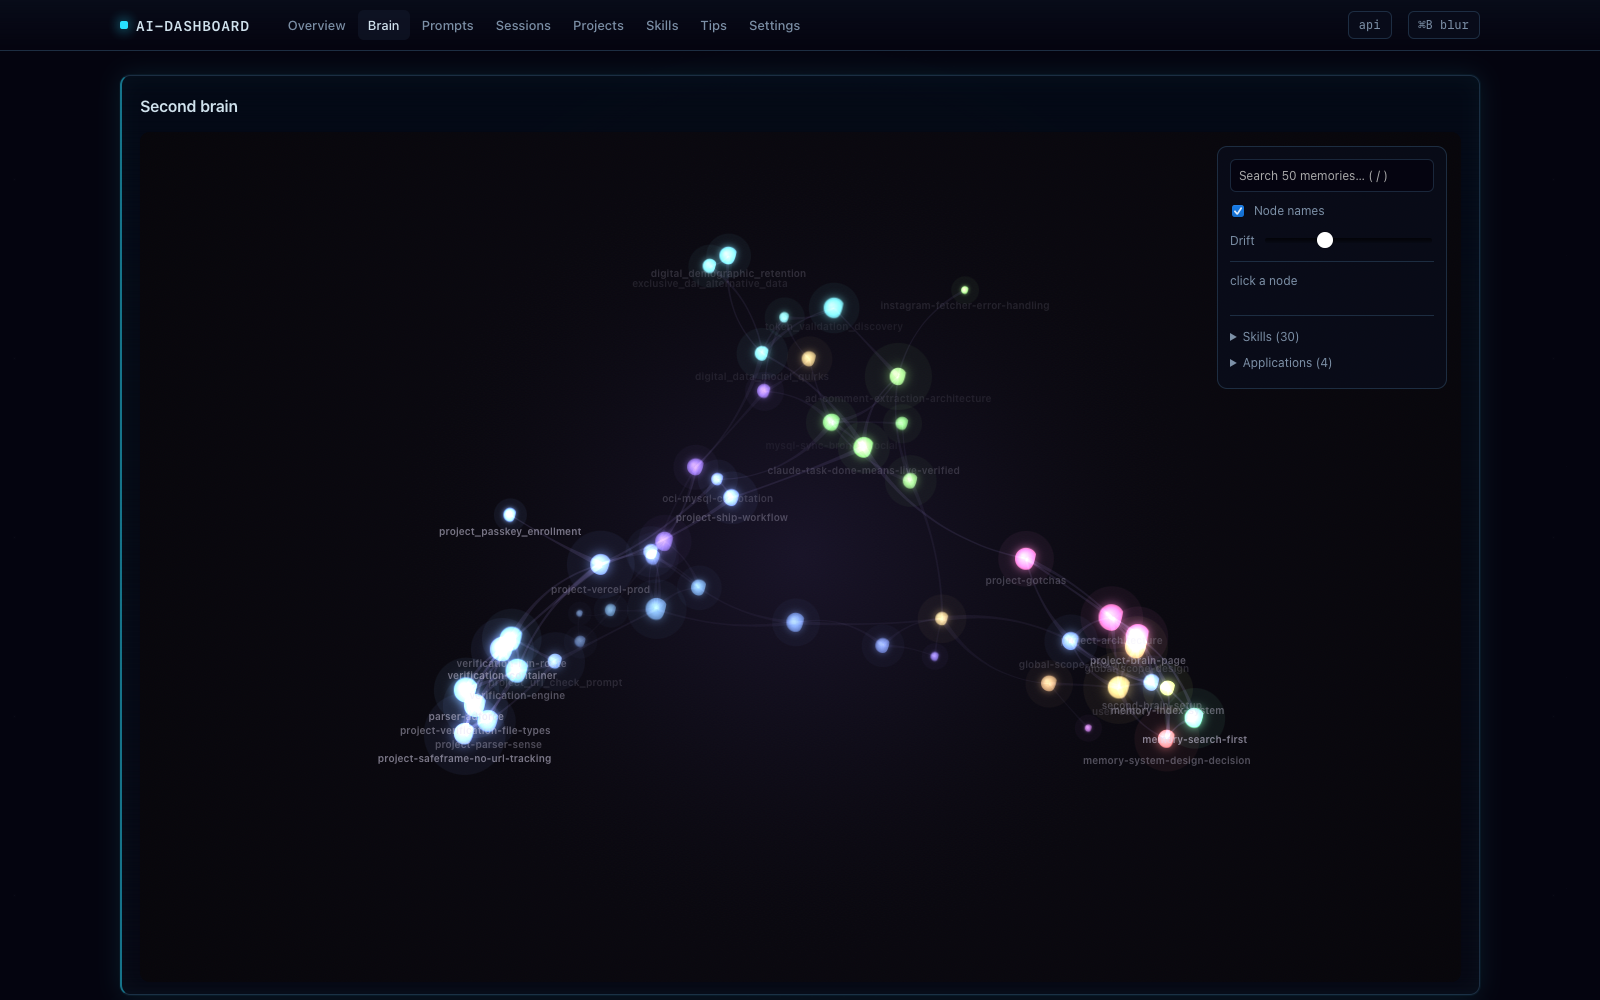
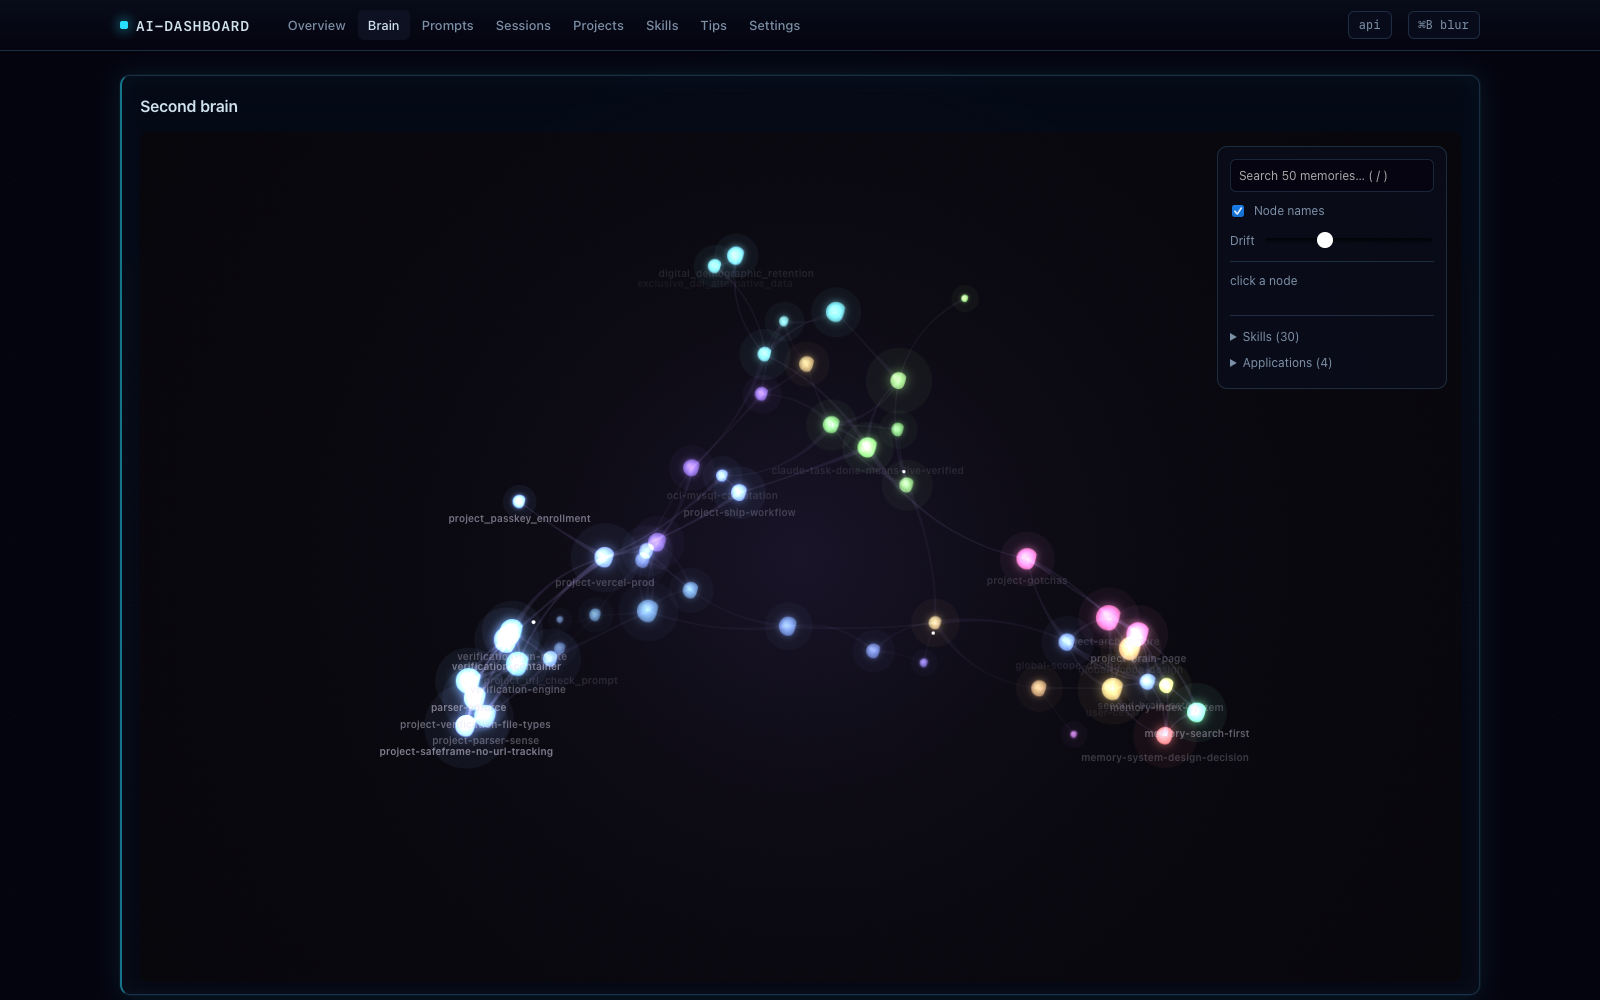
style: retheme ECharts + accent tokens to match jarvis-ui HUD palette
Previous commit only restyled card containers; the charts themselves
still used the old blue/purple/green palette. Swap chart series
colors, grid/tick/tooltip colors, and the --accent/--good/--warn/--bad
CSS tokens for the cyan/violet/gold/teal/red HUD palette used in
jarvis-ui, so cards, badges, and charts read as one consistent theme.

diff --git a/web/charts.js b/web/charts.js
@@ -1,6 +1,8 @@
 // charts.js — themed ECharts wrappers
 
-const PALETTE = ['#4A9EFF', '#7C5CFF', '#3FB68B', '#E8A23B', '#E5484D', '#5BCEDA', '#F472B6'];
+const PALETTE = ['#27E0FF', '#8B7CFF', '#FFB53D', '#2FE6B8', '#FF4133', '#5BCBFF', '#F472B6'];
+const CHART_TICK = 'rgba(180, 220, 255, 0.55)';
+const CHART_GRID = 'rgba(120, 200, 255, 0.1)';
 
 const BASE = {
   textStyle: { color: '#E6EDF3', fontFamily: 'Inter' },
@@ -9,25 +11,26 @@ const BASE = {
 };
 
 const X_AXIS = {
-  axisLine:  { lineStyle: { color: '#1F2630' } },
-  axisLabel: { color: '#8B98A6' },
+  axisLine:  { lineStyle: { color: CHART_GRID } },
+  axisLabel: { color: CHART_TICK },
   axisTick:  { show: false },
 };
 
 const Y_AXIS = {
   axisLine:  { show: false },
   axisTick:  { show: false },
-  splitLine: { lineStyle: { color: '#1F2630' } },
-  axisLabel: { color: '#8B98A6' },
+  splitLine: { lineStyle: { color: CHART_GRID } },
+  axisLabel: { color: CHART_TICK },
 };
 
 const TOOLTIP = {
   trigger: 'axis',
-  backgroundColor: '#0F1419',
-  borderColor: '#283040',
+  backgroundColor: '#050410',
+  borderColor: 'rgba(39, 224, 255, 0.35)',
   borderWidth: 1,
   textStyle: { color: '#E6EDF3', fontFamily: 'Inter', fontSize: 12 },
   padding: [8, 12],
+  extraCssText: 'box-shadow: 0 0 20px rgba(39, 224, 255, 0.15);',
 };
 
 function mount(el) {
@@ -41,7 +44,7 @@ export function lineChart(el, { x, series }) {
   c.setOption({
     ...BASE,
     tooltip: TOOLTIP,
-    legend: { textStyle: { color: '#8B98A6' }, top: 0, right: 0, icon: 'roundRect', itemWidth: 8, itemHeight: 8 },
+    legend: { textStyle: { color: CHART_TICK }, top: 0, right: 0, icon: 'roundRect', itemWidth: 8, itemHeight: 8 },
     xAxis: { ...X_AXIS, type: 'category', data: x, boundaryGap: false },
     yAxis: { ...Y_AXIS, type: 'value' },
     series: series.map(s => ({
@@ -78,7 +81,7 @@ export function stackedBarChart(el, { categories, series, formatter }) {
       valueFormatter: formatter || (v => Number(v).toLocaleString()),
     },
     legend: {
-      textStyle: { color: '#8B98A6' },
+      textStyle: { color: CHART_TICK },
       top: 0, right: 0, icon: 'roundRect',
       itemWidth: 8, itemHeight: 8,
     },
@@ -110,7 +113,7 @@ export function groupedBarChart(el, { categories, series, formatter }) {
       valueFormatter: formatter || (v => Number(v).toLocaleString()),
     },
     legend: {
-      textStyle: { color: '#8B98A6' },
+      textStyle: { color: CHART_TICK },
       top: 0, right: 0, icon: 'roundRect',
       itemWidth: 8, itemHeight: 8,
     },
@@ -137,12 +140,12 @@ export function donutChart(el, data) {
     color: PALETTE,
     tooltip: {
       trigger: 'item',
-      backgroundColor: '#0F1419', borderColor: '#283040', borderWidth: 1,
+      backgroundColor: '#050410', borderColor: 'rgba(39, 224, 255, 0.35)', borderWidth: 1,
       textStyle: { color: '#E6EDF3', fontFamily: 'Inter' },
       formatter: p => `${p.name}<br/><b>${Number(p.value).toLocaleString()}</b> tokens (${p.percent.toFixed(1)}%)`,
     },
     legend: {
-      textStyle: { color: '#8B98A6' },
+      textStyle: { color: CHART_TICK },
       bottom: 10, icon: 'roundRect', itemWidth: 8, itemHeight: 8,
       type: 'scroll',
     },
@@ -152,7 +155,7 @@ export function donutChart(el, data) {
       radius: ['48%', '68%'],
       avoidLabelOverlap: true,
       padAngle: 2,
-      itemStyle: { borderColor: '#0F1419', borderWidth: 2, borderRadius: 4 },
+      itemStyle: { borderColor: '#050410', borderWidth: 2, borderRadius: 4 },
       label: {
         show: true,
         position: 'inside',

diff --git a/web/style.css b/web/style.css
@@ -7,11 +7,11 @@
   --text:      #E6EDF3;
   --muted:     #8B98A6;
   --muted-2:   #5A6573;
-  --accent:    #4A9EFF;
-  --accent-2:  #7C5CFF;
-  --good:      #3FB68B;
-  --warn:      #E8A23B;
-  --bad:       #E5484D;
+  --accent:    #27E0FF;
+  --accent-2:  #8B7CFF;
+  --good:      #2FE6B8;
+  --warn:      #FFB53D;
+  --bad:       #FF4133;
   --mono: 'JetBrains Mono', ui-monospace, SFMono-Regular, Consolas, monospace;
   --sans: 'Inter', system-ui, -apple-system, 'Segoe UI', sans-serif;
 }
@@ -78,7 +78,7 @@ main#app { padding: 24px 20px; max-width: 1400px; margin: 0 auto; }
   border-radius: 10px;
   padding: 18px;
   backdrop-filter: blur(6px);
-  box-shadow: 0 0 0 1px rgba(74, 158, 255, 0.04), 0 8px 24px -12px rgba(74, 158, 255, 0.18);
+  box-shadow: 0 0 0 1px rgba(39, 224, 255, 0.06), 0 8px 24px -12px rgba(39, 224, 255, 0.2);
 }
 .card h2 { margin: 0 0 14px; font-size: 16px; font-weight: 600; letter-spacing: -0.01em; }
 .card h3 { margin: 0 0 10px; font-size: 13px; font-weight: 600; color: var(--text); }
@@ -110,9 +110,9 @@ main#app { padding: 24px 20px; max-width: 1400px; margin: 0 auto; }
   font-variant-numeric: tabular-nums; letter-spacing: -0.03em;
   margin-top: 6px; line-height: 1.1;
   white-space: nowrap;
-  text-shadow: 0 0 16px rgba(74, 158, 255, 0.25);
+  text-shadow: 0 0 16px rgba(39, 224, 255, 0.3);
 }
-.kpi.cost .value { color: var(--good); text-shadow: 0 0 16px rgba(63, 182, 139, 0.3); }
+.kpi.cost .value { color: var(--good); text-shadow: 0 0 16px rgba(47, 230, 184, 0.35); }
 /* compact tokens like "4.1B" are short — give them a touch more room */
 .kpi .value.big { font-size: 24px; }
 .kpi .delta { font-family: var(--mono); font-size: 12px; margin-top: 4px; }
@@ -145,10 +145,10 @@ td.mono { font-family: var(--mono); color: var(--muted); }
   border: 1px solid var(--border);
   font-family: var(--mono); font-weight: 500;
 }
-.badge.opus    { color: var(--accent-2); border-color: rgba(124,92,255,0.3); background: rgba(124,92,255,0.08); }
-.badge.sonnet  { color: var(--accent);   border-color: rgba(74,158,255,0.3); background: rgba(74,158,255,0.08); }
-.badge.haiku   { color: var(--good);     border-color: rgba(63,182,139,0.3); background: rgba(63,182,139,0.08); }
-.badge.auto    { color: var(--good); border-color: rgba(63,182,139,0.4); background: rgba(63,182,139,0.12); text-transform: uppercase; font-size: 10px; letter-spacing: 0.04em; }
+.badge.opus    { color: var(--accent-2); border-color: rgba(139,124,255,0.3); background: rgba(139,124,255,0.08); }
+.badge.sonnet  { color: var(--accent);   border-color: rgba(39,224,255,0.3); background: rgba(39,224,255,0.08); }
+.badge.haiku   { color: var(--good);     border-color: rgba(47,230,184,0.3); background: rgba(47,230,184,0.08); }
+.badge.auto    { color: var(--good); border-color: rgba(47,230,184,0.4); background: rgba(47,230,184,0.12); text-transform: uppercase; font-size: 10px; letter-spacing: 0.04em; }
 
 /* drawer */
 #drawer .card { margin-top: 16px; border-color: var(--border-2); }
@@ -168,8 +168,8 @@ button, select {
   cursor: pointer;
 }
 button:hover, select:hover { border-color: var(--border-2); }
-button.primary { background: var(--accent); color: #fff; border-color: var(--accent); }
-button.primary:hover { background: #5BA8FF; }
+button.primary { background: var(--accent); color: #06121a; border-color: var(--accent); }
+button.primary:hover { background: #5CE8FF; }
 button.ghost { background: transparent; color: var(--muted); }
 button.ghost.danger { color: var(--bad); }
 button.ghost.danger:hover { border-color: var(--bad); }

diff --git a/web/routes/overview.js b/web/routes/overview.js
@@ -153,9 +153,9 @@ export default async function (root) {
   stackedBarChart(document.getElementById('ch-daily-billable'), {
     categories: daily.map(d => d.day),
     series: [
-      { name: 'input',        values: daily.map(d => d.input_tokens),        color: '#4A9EFF' },
-      { name: 'output',       values: daily.map(d => d.output_tokens),       color: '#7C5CFF' },
-      { name: 'cache create', values: daily.map(d => d.cache_create_tokens), color: '#E8A23B' },
+      { name: 'input',        values: daily.map(d => d.input_tokens),        color: '#27E0FF' },
+      { name: 'output',       values: daily.map(d => d.output_tokens),       color: '#8B7CFF' },
+      { name: 'cache create', values: daily.map(d => d.cache_create_tokens), color: '#FFB53D' },
     ],
   });
 
@@ -163,7 +163,7 @@ export default async function (root) {
   stackedBarChart(document.getElementById('ch-daily-cache'), {
     categories: daily.map(d => d.day),
     series: [
-      { name: 'cache read', values: daily.map(d => d.cache_read_tokens), color: '#3FB68B' },
+      { name: 'cache read', values: daily.map(d => d.cache_read_tokens), color: '#2FE6B8' },
     ],
   });
 
@@ -184,8 +184,8 @@ export default async function (root) {
       return name.length > 20 ? name.slice(0, 19) + '…' : name;
     }),
     series: [
-      { name: 'input',  values: topProjects.map(p => p.input_tokens  || 0), color: '#4A9EFF' },
-      { name: 'output', values: topProjects.map(p => p.output_tokens || 0), color: '#7C5CFF' },
+      { name: 'input',  values: topProjects.map(p => p.input_tokens  || 0), color: '#27E0FF' },
+      { name: 'output', values: topProjects.map(p => p.output_tokens || 0), color: '#8B7CFF' },
     ],
   });
 
@@ -194,7 +194,7 @@ export default async function (root) {
   barChart(document.getElementById('ch-tools'), {
     categories: topTools.map(t => t.tool_name),
     values: topTools.map(t => t.calls),
-    color: '#7C5CFF',
+    color: '#8B7CFF',
   });
 
   // knowledge card — fetched after first paint so it never delays the overview

diff --git a/web/routes/brain.js b/web/routes/brain.js
@@ -158,9 +158,9 @@ export default async function (root) {
     stackedBarChart(tlEl, {
       categories: timeline.map(d => d.day.slice(5)),
       series: [
-        { name: 'auto', values: timeline.map(d => d.auto), color: '#3FB68B' },
-        { name: 'you', values: timeline.map(d => d.user), color: '#7C5CFF' },
-        { name: 'learnings', values: timeline.map(d => d.learnings), color: '#E8A23B' },
+        { name: 'auto', values: timeline.map(d => d.auto), color: '#2FE6B8' },
+        { name: 'you', values: timeline.map(d => d.user), color: '#8B7CFF' },
+        { name: 'learnings', values: timeline.map(d => d.learnings), color: '#FFB53D' },
       ],
       formatter: v => `${v}`,
     });

diff --git a/web/routes/skills.js b/web/routes/skills.js
@@ -90,6 +90,6 @@ export default async function (root) {
   barChart(document.getElementById('ch-skills'), {
     categories: top.map(t => t.skill.length > 26 ? t.skill.slice(0, 25) + '…' : t.skill),
     values: top.map(t => t.invocations),
-    color: '#3FB68B',
+    color: '#2FE6B8',
   });
 }
